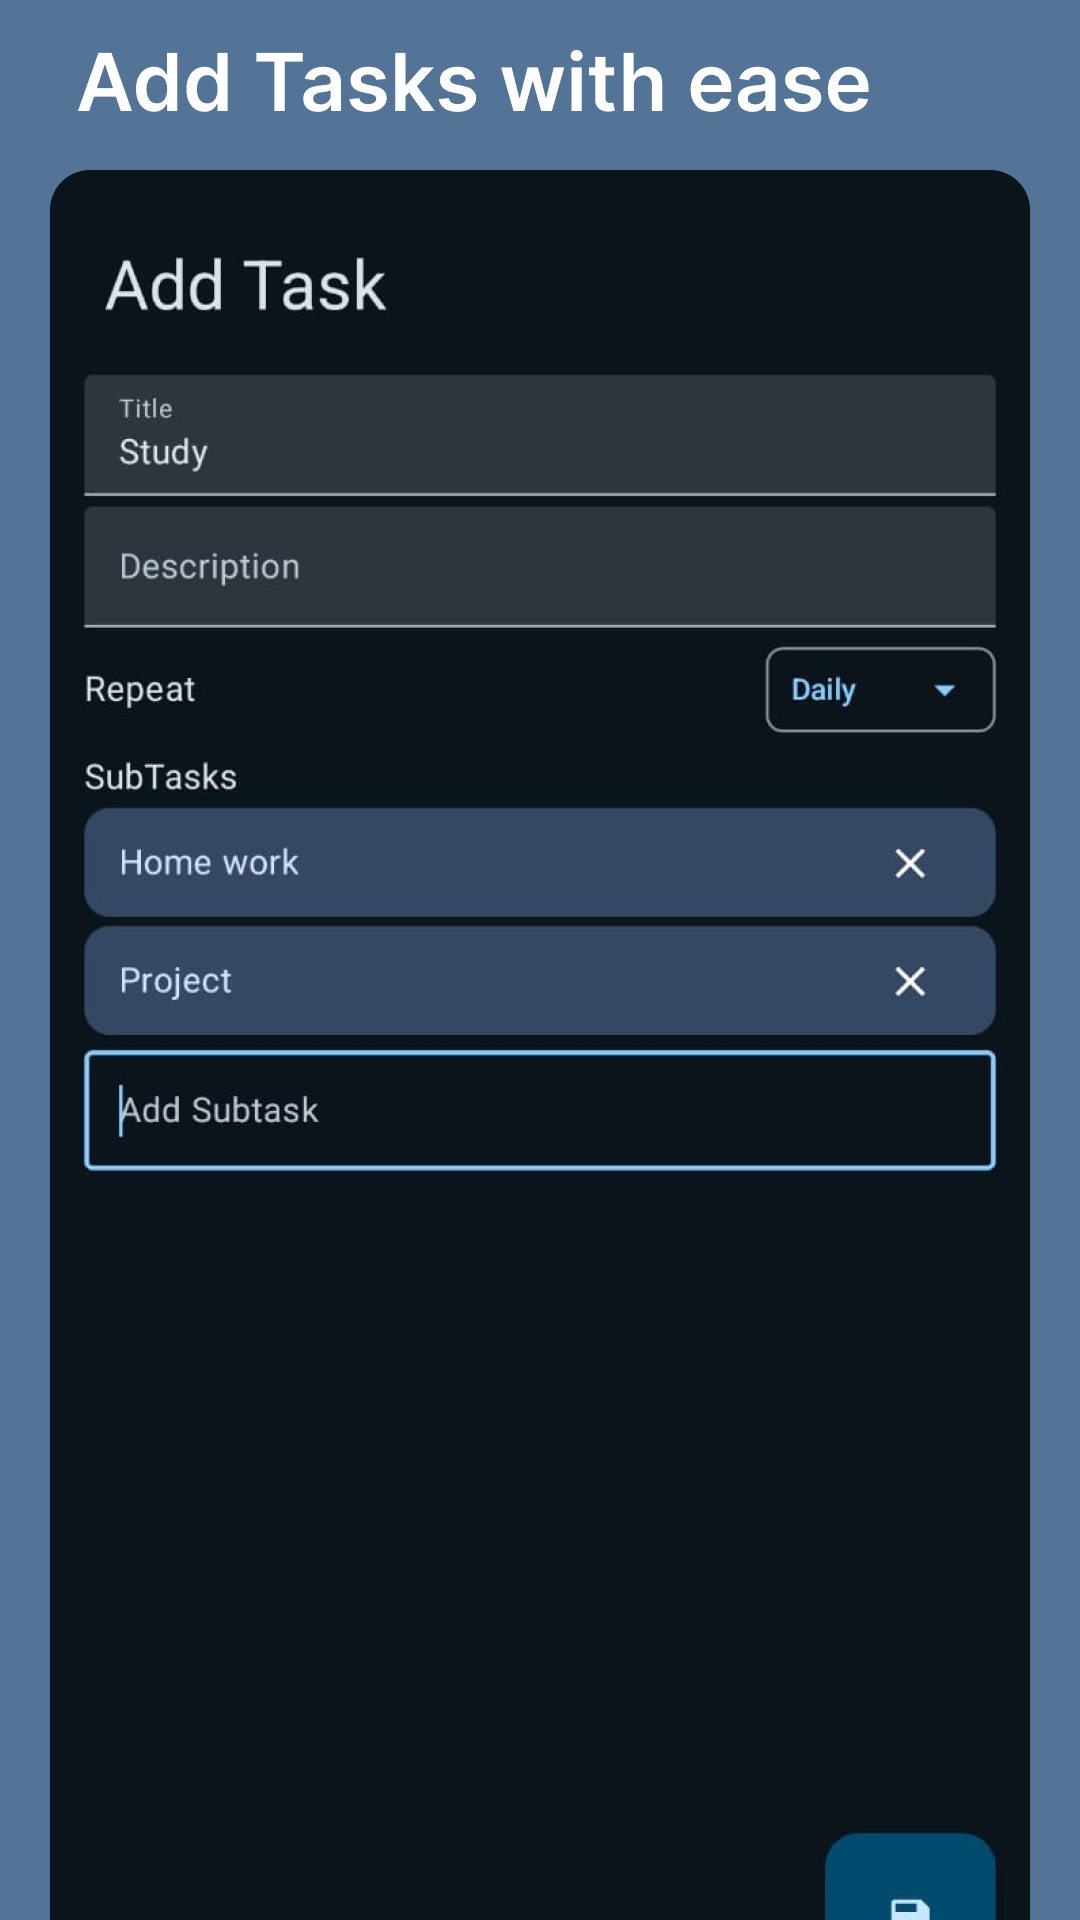
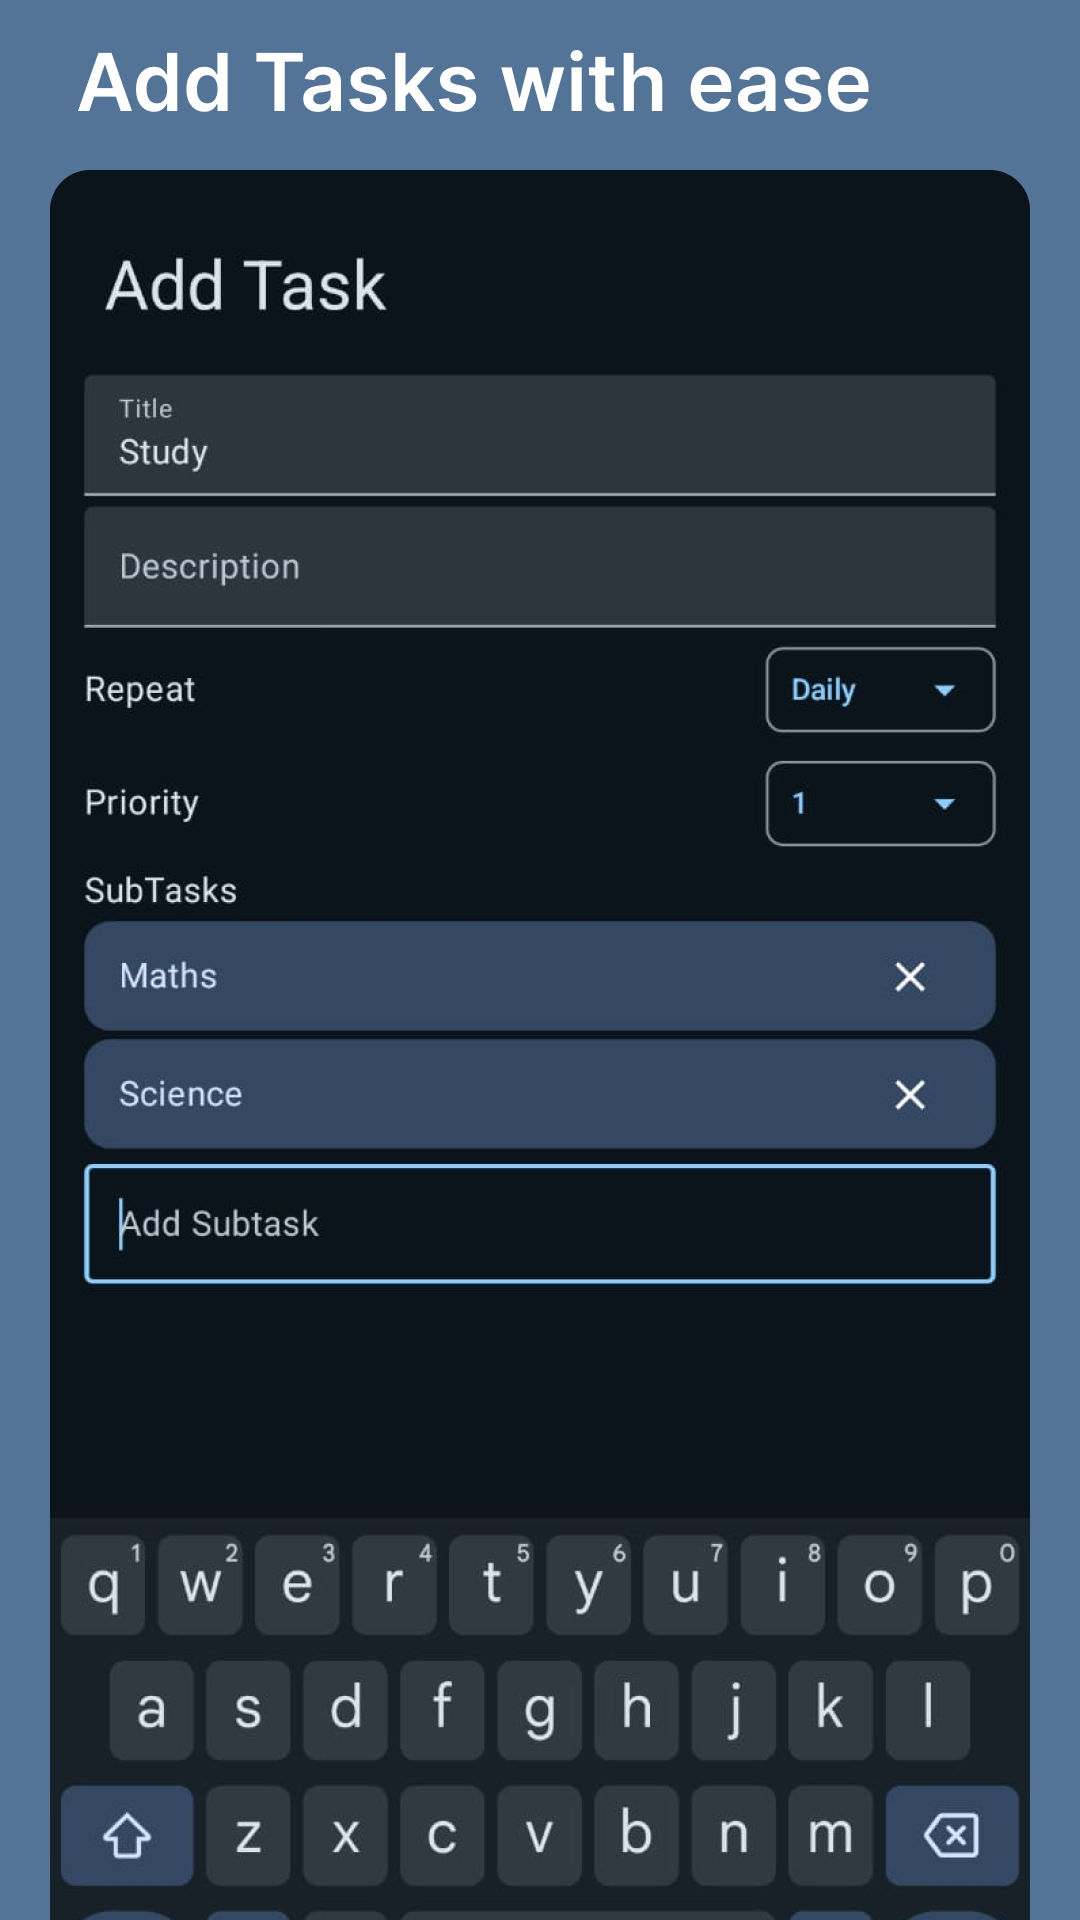
updated the docs, metadata and ss

Changed region(s): [[0.0306, 0.7812, 0.9472, 1.0], [0.0611, 0.375, 0.9472, 0.6875], [0.8861, 0.6562, 0.9167, 0.6875]]

diff --git a/Documentation/Task.md b/Documentation/Task.md
@@ -32,3 +32,7 @@
     - Type: Integer
     - Nullable: true
     - Description: Identifier of the parent Task
+9. priority
+   - Type: Integer
+   - Nullable: true
+   - Description: Has one to four value for priority of a task

diff --git a/Documentation/Rules.md b/Documentation/Rules.md
@@ -4,3 +4,6 @@
 2. A parent task is only `done` when all its children are `done`.
 3. When `Clear` is called on a child task whose parent is not `done`, the child task is unaffected.
 4. When `Clear` is called on a `done` repeating task, `hide` is set to `true` and `done` is set to `false`.
+5. When `Skip` is called on a task it is `Archived` by setting its `hide` to `true`.
+6. If an `Archived` Task is repetitive then it will get `Unarchived` on the next instance of the repeat.
+7. If an `Archived` Task is non-repetitive then it will `Unarchived` on the next day.